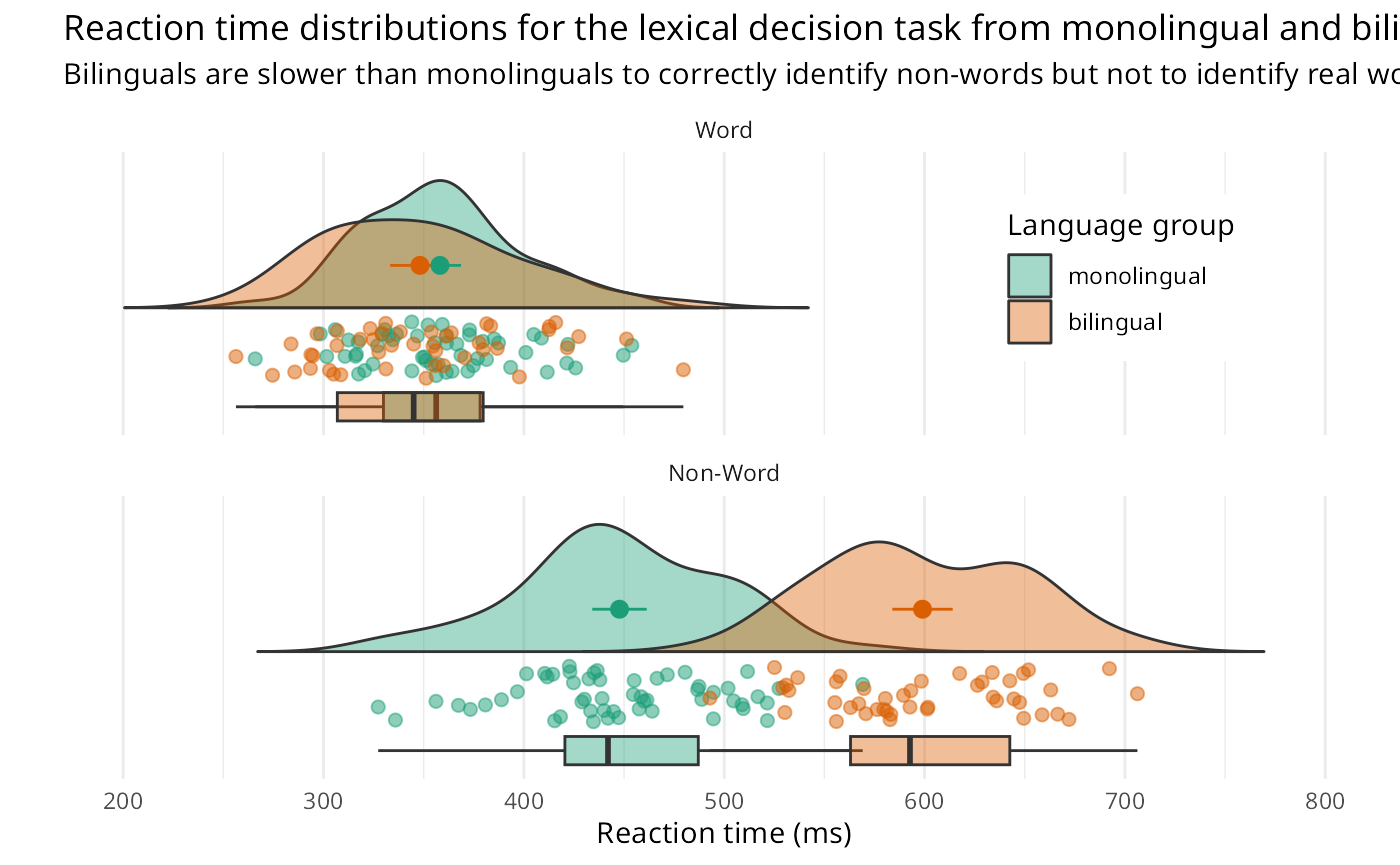
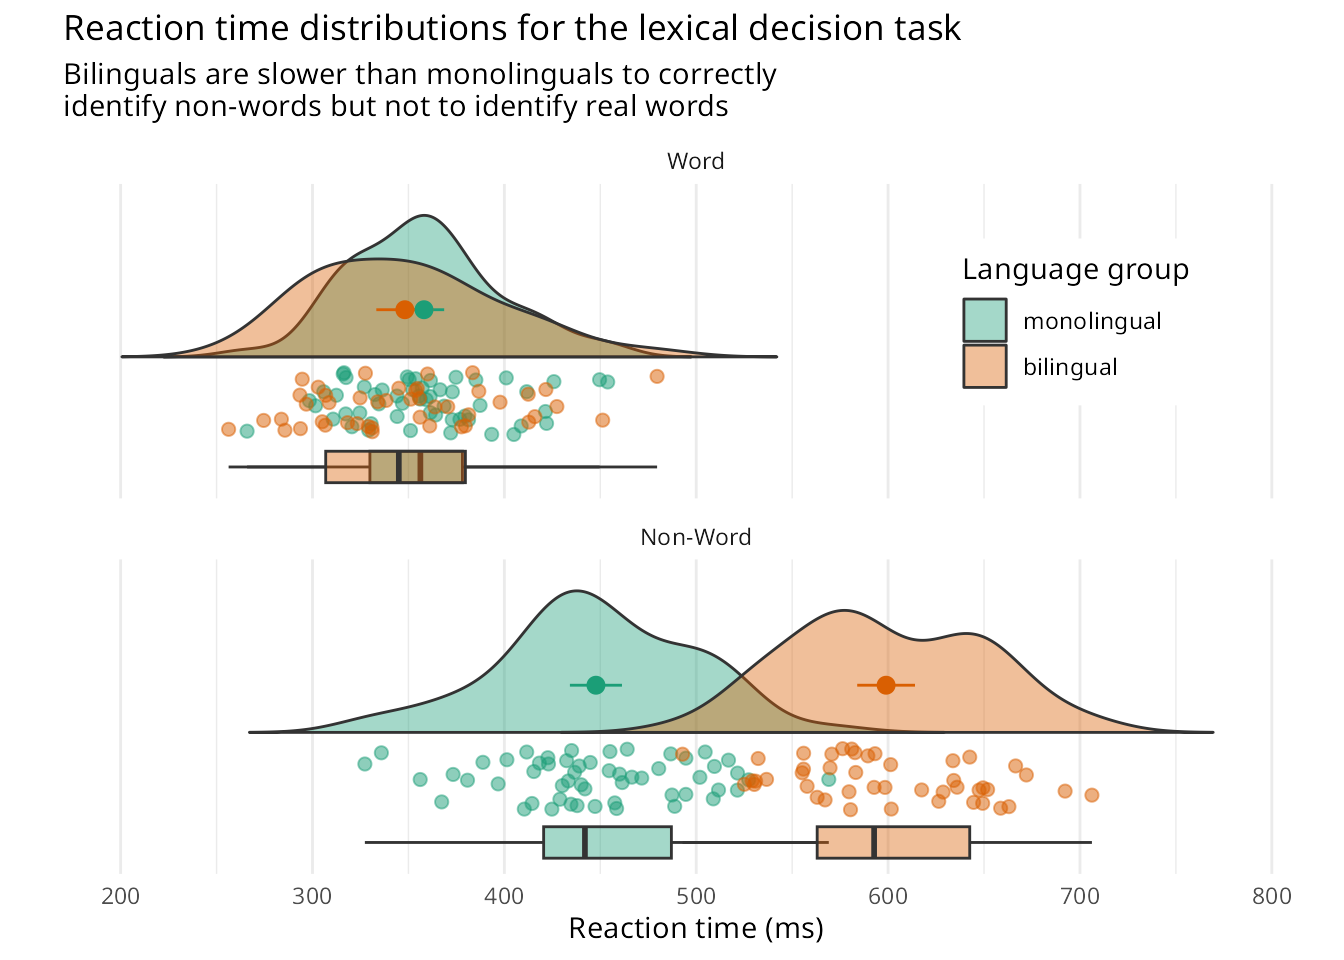
resize raincloud

diff --git a/docs/articles/plot_raincloud.html b/docs/articles/plot_raincloud.html
@@ -144,15 +144,15 @@
 <span>  <span class="fu"><a href="https://ggplot2.tidyverse.org/reference/scale_brewer.html" class="external-link">scale_colour_brewer</a></span><span class="op">(</span>palette <span class="op">=</span> <span class="st">"Dark2"</span><span class="op">)</span> <span class="op">+</span></span>
 <span>  <span class="fu"><a href="https://ggplot2.tidyverse.org/reference/ggtheme.html" class="external-link">theme_minimal</a></span><span class="op">(</span><span class="op">)</span> <span class="op">+</span></span>
 <span>  <span class="fu"><a href="https://ggplot2.tidyverse.org/reference/theme.html" class="external-link">theme</a></span><span class="op">(</span>panel.grid.major.y <span class="op">=</span> <span class="fu"><a href="https://ggplot2.tidyverse.org/reference/element.html" class="external-link">element_blank</a></span><span class="op">(</span><span class="op">)</span>, legend.position <span class="op">=</span> <span class="fu"><a href="https://rdrr.io/r/base/c.html" class="external-link">c</a></span><span class="op">(</span><span class="fl">0.8</span>, <span class="fl">0.8</span><span class="op">)</span>, legend.background <span class="op">=</span> <span class="fu"><a href="https://ggplot2.tidyverse.org/reference/element.html" class="external-link">element_rect</a></span><span class="op">(</span>fill <span class="op">=</span> <span class="st">"white"</span>, color <span class="op">=</span> <span class="st">"white"</span><span class="op">)</span><span class="op">)</span><span class="op">+</span></span>
-<span>  <span class="fu"><a href="https://ggplot2.tidyverse.org/reference/labs.html" class="external-link">labs</a></span><span class="op">(</span>title<span class="op">=</span><span class="st">"Reaction time distributions for the lexical decision task from monolingual and bilingual readers"</span>, </span>
-<span>       subtitle <span class="op">=</span> <span class="st">"Bilinguals are slower than monolinguals to correctly identify non-words but not to identify real words"</span><span class="op">)</span></span>
+<span>  <span class="fu"><a href="https://ggplot2.tidyverse.org/reference/labs.html" class="external-link">labs</a></span><span class="op">(</span>title<span class="op">=</span><span class="st">"Reaction time distributions for the lexical decision task"</span>, </span>
+<span>       subtitle <span class="op">=</span> <span class="st">"Bilinguals are slower than monolinguals to correctly\nidentify non-words but not to identify real words"</span><span class="op">)</span></span>
 <span><span class="co">#&gt; Warning: Removed 10 rows containing missing values (`violinist()`).</span></span>
 <span><span class="co">#&gt; Warning: Using the `size` aesthetic with geom_polygon was deprecated in ggplot2 3.4.0.</span></span>
 <span><span class="co">#&gt; <span style="color: #00BBBB;">ℹ</span> Please use the `linewidth` aesthetic instead.</span></span>
 <span><span class="co">#&gt; <span style="color: #555555;">This warning is displayed once every 8 hours.</span></span></span>
 <span><span class="co">#&gt; <span style="color: #555555;">Call `lifecycle::last_lifecycle_warnings()` to see where this warning was</span></span></span>
 <span><span class="co">#&gt; <span style="color: #555555;">generated.</span></span></span></code></pre></div>
-<p><img src="plot_raincloud_files/figure-html/unnamed-chunk-2-1.png" width="700"></p>
+<p><img src="plot_raincloud_files/figure-html/unnamed-chunk-2-1.png" width="672"></p>
   </div>
 
   <div class="col-md-3 hidden-xs hidden-sm" id="pkgdown-sidebar">
